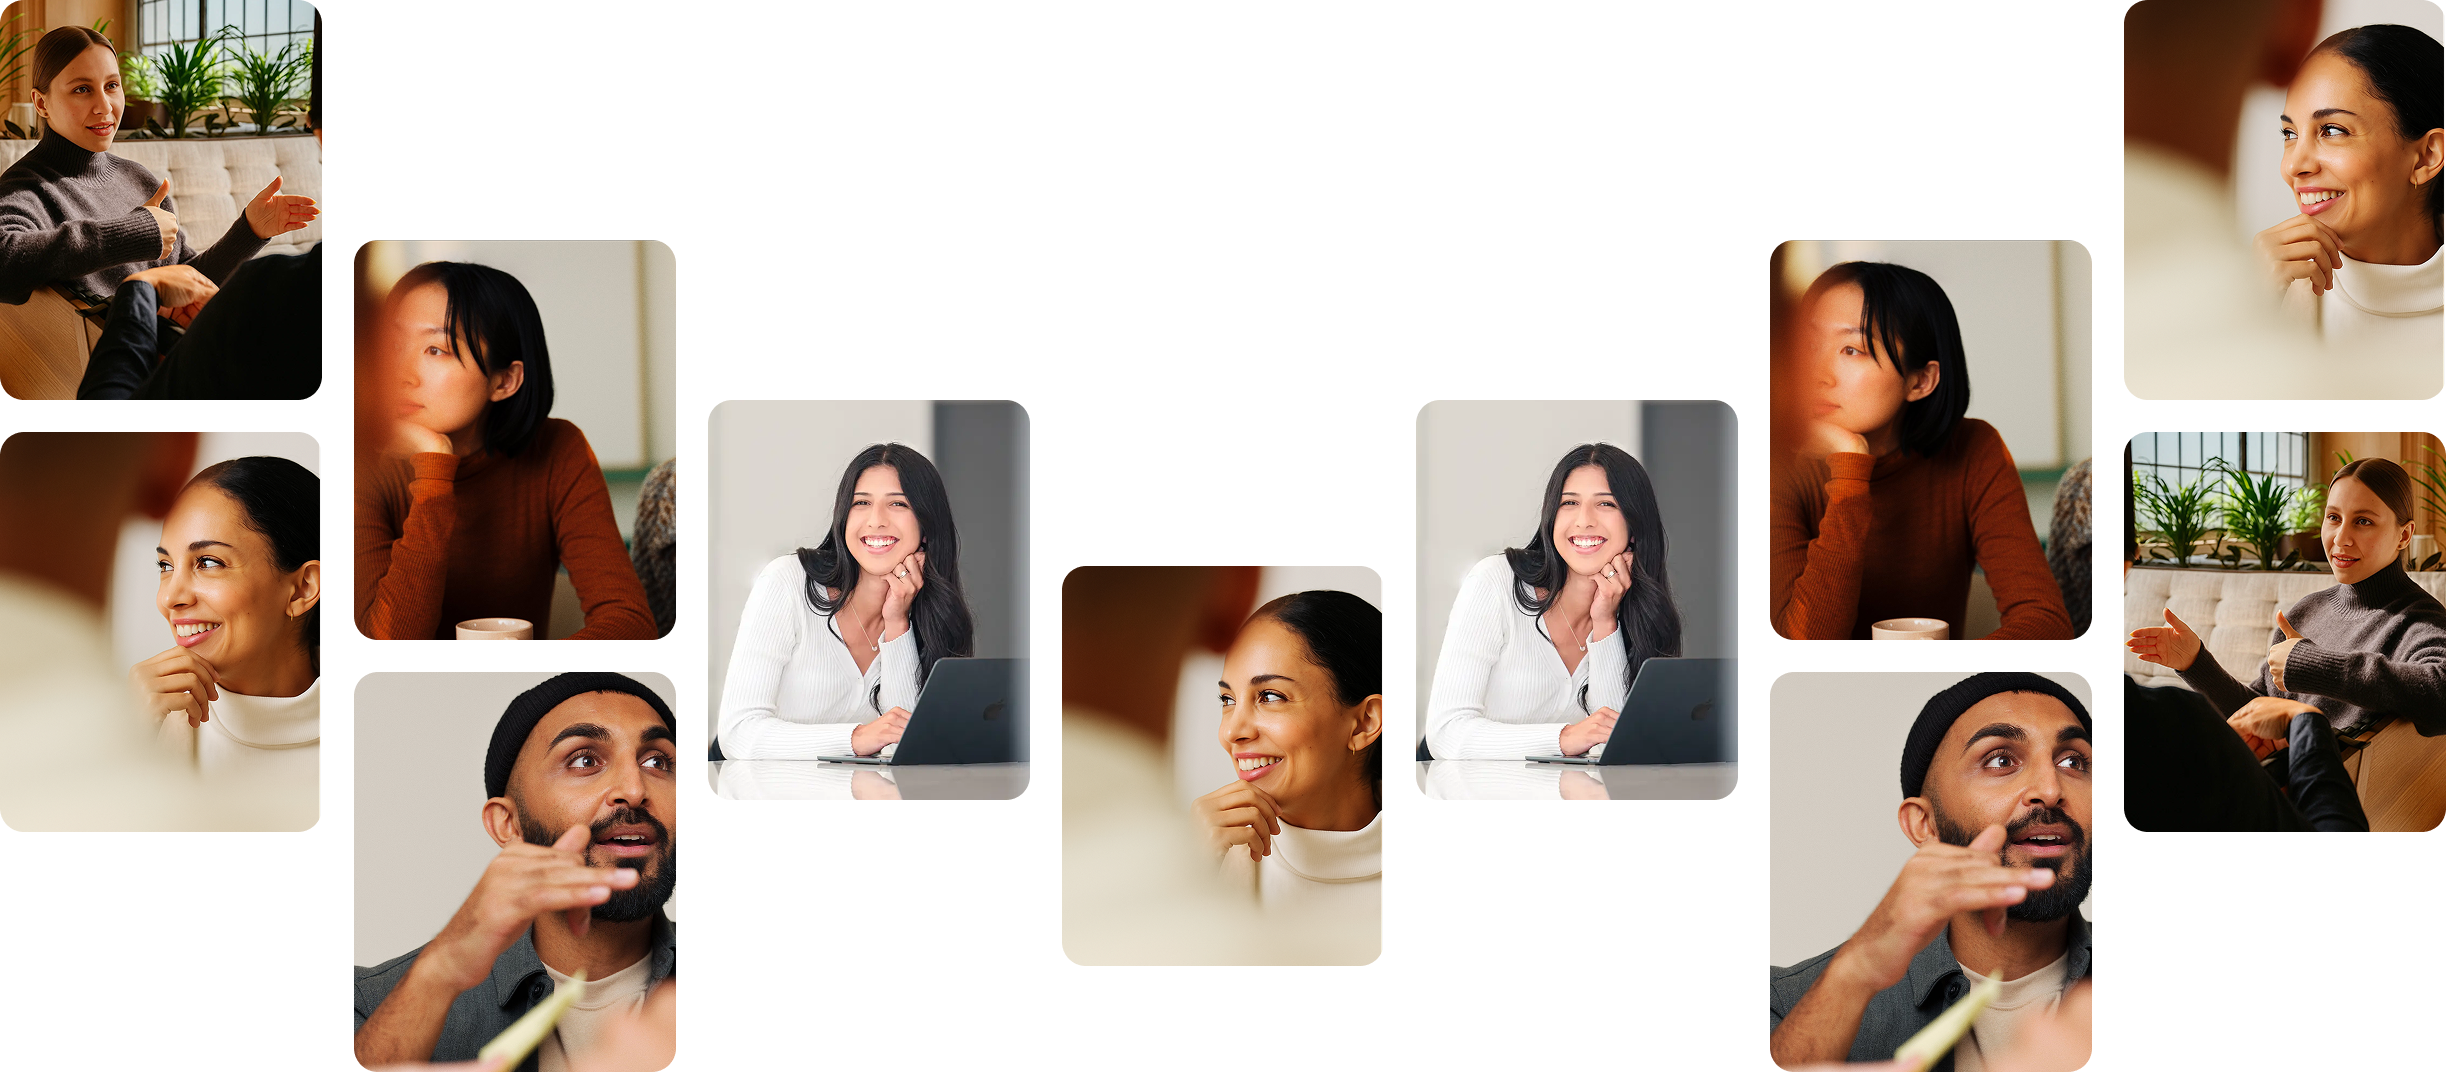
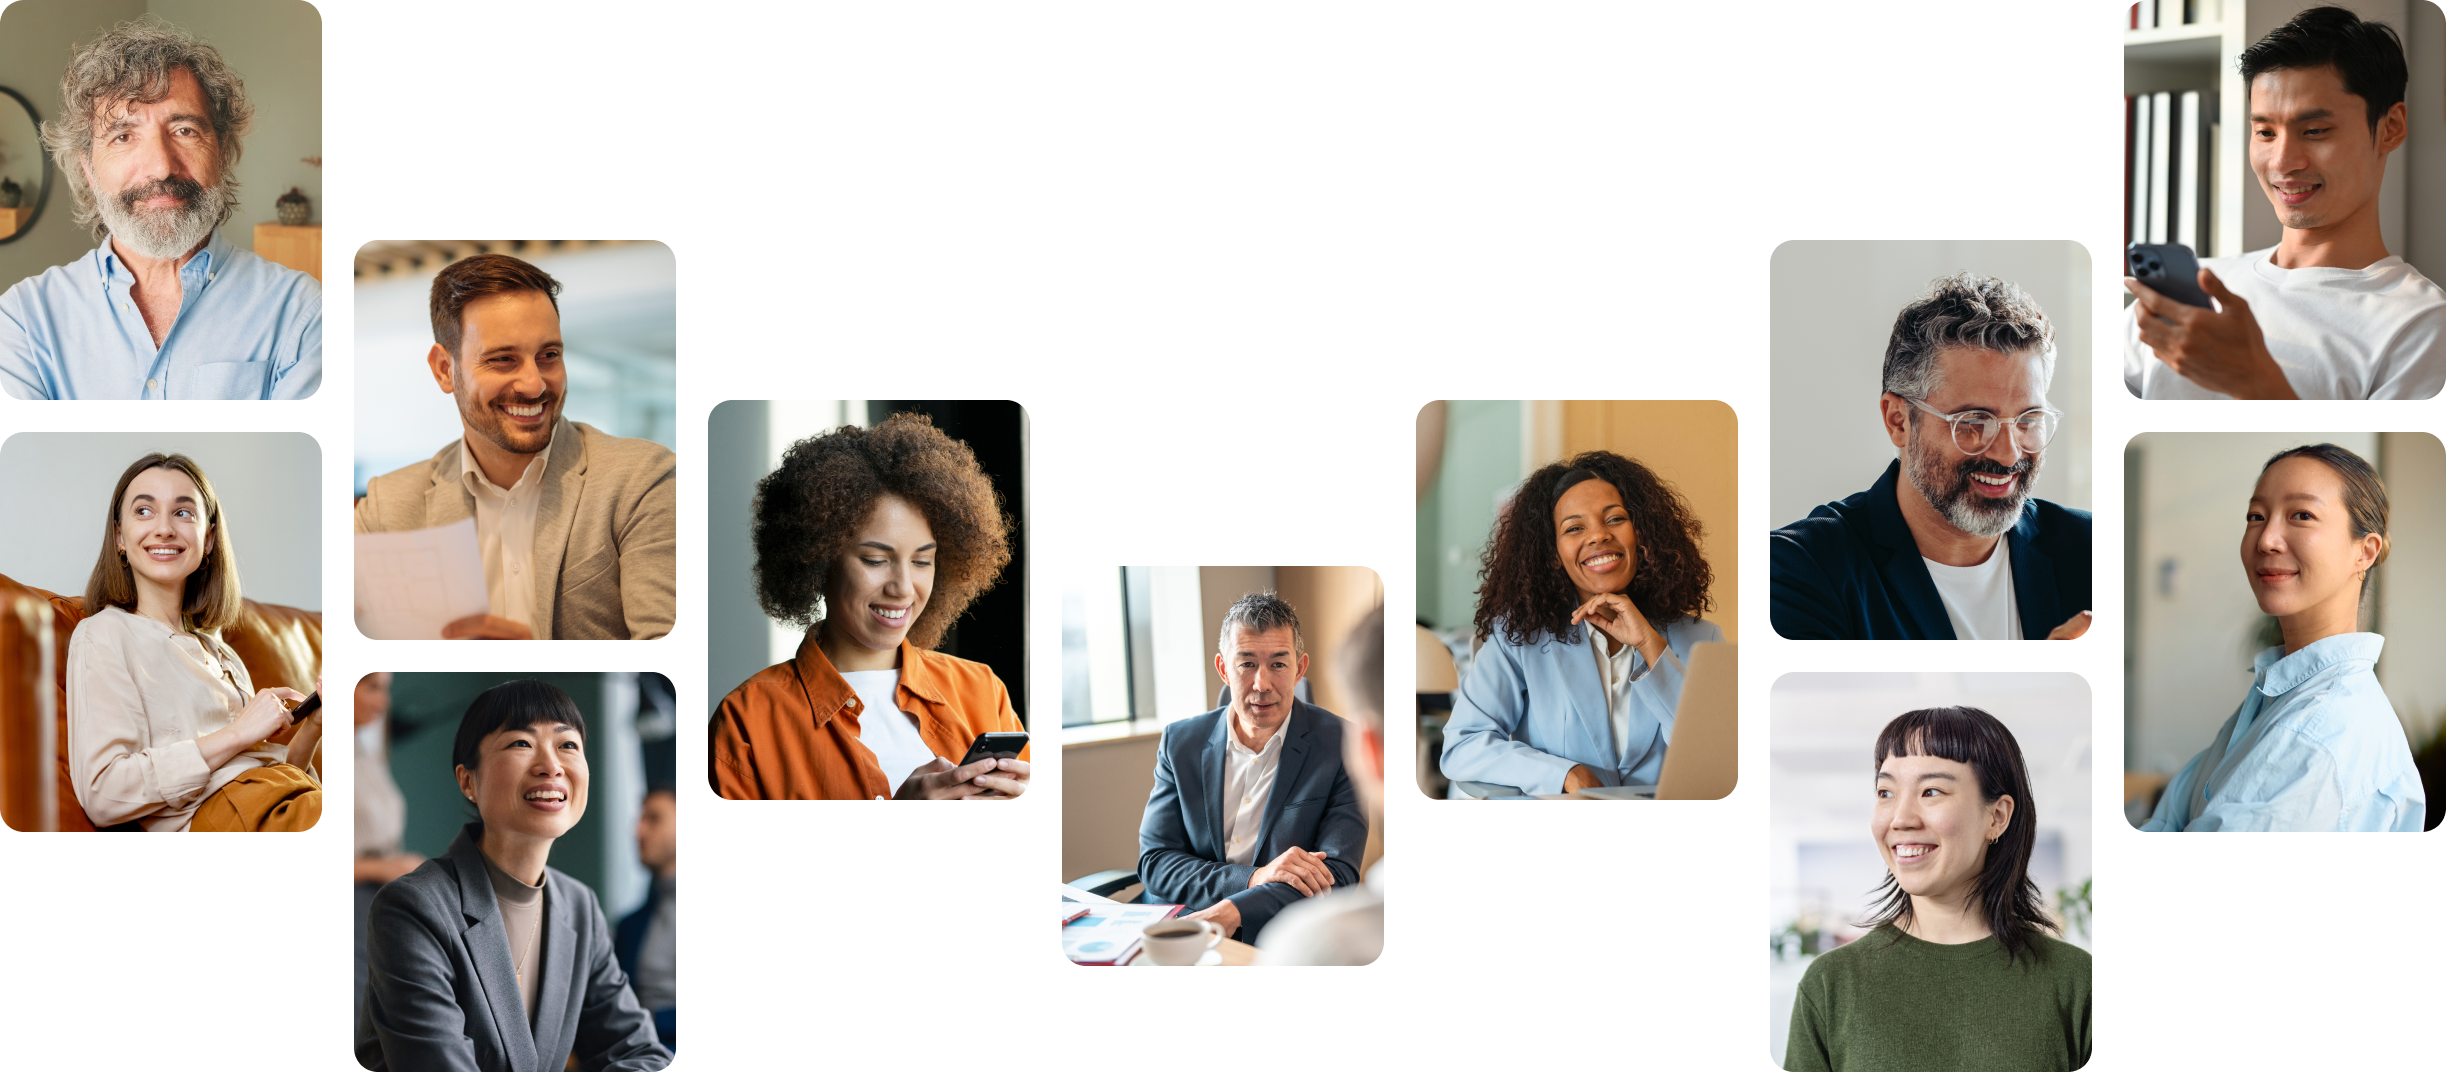
Update customer hero image (#1000)
* Update customer hero image

Replaces the existing customer-hero-image.png with a new version in the public/images directory.

* updated spacing

* revert spacing changes

* Make the hero section image dynamic.

---------

diff --git a/app/components/PageComponent/Customers/customersPage.js b/app/components/PageComponent/Customers/customersPage.js
@@ -7,7 +7,6 @@ import { isEmpty } from '../../../helpers/helpers';
 import { EXTERNAL_LINK_KEYS } from '../../../constants/constant';
 import NewCTA from '../../cta/newCTA';
 import { CTAData, CustomerTableSectionData } from '../../../constants/raw';
-import CustomerHeroImage from '../../../../public/images/customer-hero-image.png';
 import CustomerPageHero from '../../standardHero/customerPageHero/customerPageHero';
 import SectionHeader from '../../sectionHeader/sectionHeader';
 import CustomerTableSection from './customerTableSection';
@@ -41,7 +40,7 @@ export default function CustomerPage({
     <CustomerPageWrapper>
       {!isEmpty(heroSection) && (
         <CustomerPageHero
-          image={CustomerHeroImage.src}
+          image={heroSection?.banner1?.url}
           title={heroSection?.heroTitle}
           body={heroSection?.heroDescription}
           primaryButtonLink={heroSection?.primaryButtonLink}
